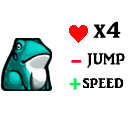
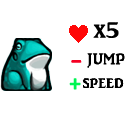
Arreglados fallos del commit anterior al resetear el nivel y reajustada vida de players

Changed region(s): [[0.8125, 0.1562, 0.9688, 0.3125]]

diff --git a/.tmp/js/bundle.js b/.tmp/js/bundle.js
@@ -695,14 +695,14 @@ var entities = require('./entities.js');
 //Scene de juego.
 var PlayScene = {
     gameState: {  //Valores predefinidos que seran cambiados al ir a pausa y reescritos al volver
-      posX: 480,
-      posY: 1184,
+      posX: 128,
+      posY: 448,
       playerHP: 4,
       invincible: false,
       timeRecover: 80,
       },
     _player: {}, //Refinar esto con un creador de player.//player
-    spritePlayer: 'player_01',
+    playerInfo: {name: 'player_01', life: 4, jump: -700, speedPower: true },
     level: 'jumpTestLevel',
     _resume: false,
     _maxYspeed: 0,
@@ -711,11 +711,11 @@ var PlayScene = {
     _keys: 0,
     _maxTimeInvincible: 80, //Tiempo que esta invencible tras ser golpeado
     _maxInputIgnore: 30,   //Tiempo que ignora el input tras ser golpeado
-    _ySpeedLimit: 1000,   //El jugador empieza a saltarse colisiones a partir de 1500 de velocidad
+    _ySpeedLimit: 800,   //El jugador empieza a saltarse colisiones a partir de 1500 de velocidad
       
-  init: function (resume, spritePlayer){
+  init: function (resume, playerInfo){
     // Lo que se carga da igual de donde vengas...
-    if (!!spritePlayer) this.spritePlayer = spritePlayer; //Si no recibe un spritePlayer carga el básico
+    if (!!playerInfo) this.playerInfo = playerInfo; //Si no recibe un spritePlayer carga el básico
     // Y ahora si venimos de pausa...
     if (resume)this._resume = true;
      //Activara las variables almacenadas en gameState a la hora de inicializar el personaje
@@ -779,7 +779,7 @@ var PlayScene = {
     this.map.setCollisionBetween(0,5000, true, 'EndLvl');
 
     //Crear player:
-    this._player = new entities.Player(this.game,this.gameState.posX, this.gameState.posY,this.spritePlayer, 4);
+    this._player = new entities.Player(this.game,this.gameState.posX, this.gameState.posY,this.playerInfo);
     this.configure();
 
   	//Crear cursores
@@ -1415,7 +1415,7 @@ var PlayScene = {
       },
     _player: {}, //Refinar esto con un creador de player.//player
     playerInfo: {name: 'player_01', life: 4, jump: -700, speedPower: true },
-    level: 'level_01',
+    level: 'level_02',
     _resume: false,
     _maxYspeed: 0,
     _direction: Direction.NONE,  //dirección inicial del player. NONE es ninguna dirección.
@@ -1820,7 +1820,7 @@ var PlayScene = {
       },
     _player: {}, //Refinar esto con un creador de player.//player
     playerInfo: {name: 'player_01', life: 4, jump: -700, speedPower: true },
-    level: 'level_01',
+    level: 'level_03',
     _resume: false,
     _maxYspeed: 0,
     _direction: Direction.NONE,  //dirección inicial del player. NONE es ninguna dirección.
@@ -2234,7 +2234,7 @@ var PlayScene = {
       },
     _player: {}, //Refinar esto con un creador de player.//player
     playerInfo: {name: 'player_01', life: 4, jump: -700, speedPower: true },
-    level: 'level_01',
+    level: 'level_04',
     _resume: false,
     _maxYspeed: 0,
     _direction: Direction.NONE,  //dirección inicial del player. NONE es ninguna dirección.
@@ -2990,11 +2990,11 @@ var MenuScene = {
     },
     selectPlayer: function(){
       switch (this._it){
-        case 0: aux = { name: 'player_01', life: 4, jump: -750, speedPower: 1 }; // 1 aumenta la velocidad.
+        case 0: aux = { name: 'player_01', life: 5, jump: -750, speedPower: 1 }; // 1 aumenta la velocidad.
                 break;
-        case 1: aux = { name: 'player_02', life: 5, jump: -800, speedPower: 0 }; // 0 la mantiene.
+        case 1: aux = { name: 'player_02', life: 4, jump: -800, speedPower: 0 }; // 0 la mantiene.
                 break; 
-        case 2: aux = { name: 'player_03', life: 4, jump: -900, speedPower: -1 }; // -1 la decrementa.
+        case 2: aux = { name: 'player_03', life: 5, jump: -900, speedPower: -1 }; // -1 la decrementa.
                 break; 
       }
       console.log(aux);

diff --git a/src/js/jumpTestLevel.js b/src/js/jumpTestLevel.js
@@ -10,14 +10,14 @@ var entities = require('./entities.js');
 //Scene de juego.
 var PlayScene = {
     gameState: {  //Valores predefinidos que seran cambiados al ir a pausa y reescritos al volver
-      posX: 480,
-      posY: 1184,
+      posX: 128,
+      posY: 448,
       playerHP: 4,
       invincible: false,
       timeRecover: 80,
       },
     _player: {}, //Refinar esto con un creador de player.//player
-    spritePlayer: 'player_01',
+    playerInfo: {name: 'player_01', life: 4, jump: -700, speedPower: true },
     level: 'jumpTestLevel',
     _resume: false,
     _maxYspeed: 0,
@@ -26,11 +26,11 @@ var PlayScene = {
     _keys: 0,
     _maxTimeInvincible: 80, //Tiempo que esta invencible tras ser golpeado
     _maxInputIgnore: 30,   //Tiempo que ignora el input tras ser golpeado
-    _ySpeedLimit: 1000,   //El jugador empieza a saltarse colisiones a partir de 1500 de velocidad
+    _ySpeedLimit: 800,   //El jugador empieza a saltarse colisiones a partir de 1500 de velocidad
       
-  init: function (resume, spritePlayer){
+  init: function (resume, playerInfo){
     // Lo que se carga da igual de donde vengas...
-    if (!!spritePlayer) this.spritePlayer = spritePlayer; //Si no recibe un spritePlayer carga el básico
+    if (!!playerInfo) this.playerInfo = playerInfo; //Si no recibe un spritePlayer carga el básico
     // Y ahora si venimos de pausa...
     if (resume)this._resume = true;
      //Activara las variables almacenadas en gameState a la hora de inicializar el personaje
@@ -94,7 +94,7 @@ var PlayScene = {
     this.map.setCollisionBetween(0,5000, true, 'EndLvl');
 
     //Crear player:
-    this._player = new entities.Player(this.game,this.gameState.posX, this.gameState.posY,this.spritePlayer, 4);
+    this._player = new entities.Player(this.game,this.gameState.posX, this.gameState.posY,this.playerInfo);
     this.configure();
 
   	//Crear cursores

diff --git a/src/js/select_player.js b/src/js/select_player.js
@@ -44,11 +44,11 @@ var MenuScene = {
     },
     selectPlayer: function(){
       switch (this._it){
-        case 0: aux = { name: 'player_01', life: 4, jump: -750, speedPower: 1 }; // 1 aumenta la velocidad.
+        case 0: aux = { name: 'player_01', life: 5, jump: -750, speedPower: 1 }; // 1 aumenta la velocidad.
                 break;
-        case 1: aux = { name: 'player_02', life: 5, jump: -800, speedPower: 0 }; // 0 la mantiene.
+        case 1: aux = { name: 'player_02', life: 4, jump: -800, speedPower: 0 }; // 0 la mantiene.
                 break; 
-        case 2: aux = { name: 'player_03', life: 4, jump: -900, speedPower: -1 }; // -1 la decrementa.
+        case 2: aux = { name: 'player_03', life: 5, jump: -900, speedPower: -1 }; // -1 la decrementa.
                 break; 
       }
       console.log(aux);

diff --git a/src/js/level_02.js b/src/js/level_02.js
@@ -18,7 +18,7 @@ var PlayScene = {
       },
     _player: {}, //Refinar esto con un creador de player.//player
     playerInfo: {name: 'player_01', life: 4, jump: -700, speedPower: true },
-    level: 'level_01',
+    level: 'level_02',
     _resume: false,
     _maxYspeed: 0,
     _direction: Direction.NONE,  //dirección inicial del player. NONE es ninguna dirección.

diff --git a/src/js/level_03.js b/src/js/level_03.js
@@ -18,7 +18,7 @@ var PlayScene = {
       },
     _player: {}, //Refinar esto con un creador de player.//player
     playerInfo: {name: 'player_01', life: 4, jump: -700, speedPower: true },
-    level: 'level_01',
+    level: 'level_03',
     _resume: false,
     _maxYspeed: 0,
     _direction: Direction.NONE,  //dirección inicial del player. NONE es ninguna dirección.

diff --git a/src/js/level_04.js b/src/js/level_04.js
@@ -18,7 +18,7 @@ var PlayScene = {
       },
     _player: {}, //Refinar esto con un creador de player.//player
     playerInfo: {name: 'player_01', life: 4, jump: -700, speedPower: true },
-    level: 'level_01',
+    level: 'level_04',
     _resume: false,
     _maxYspeed: 0,
     _direction: Direction.NONE,  //dirección inicial del player. NONE es ninguna dirección.
